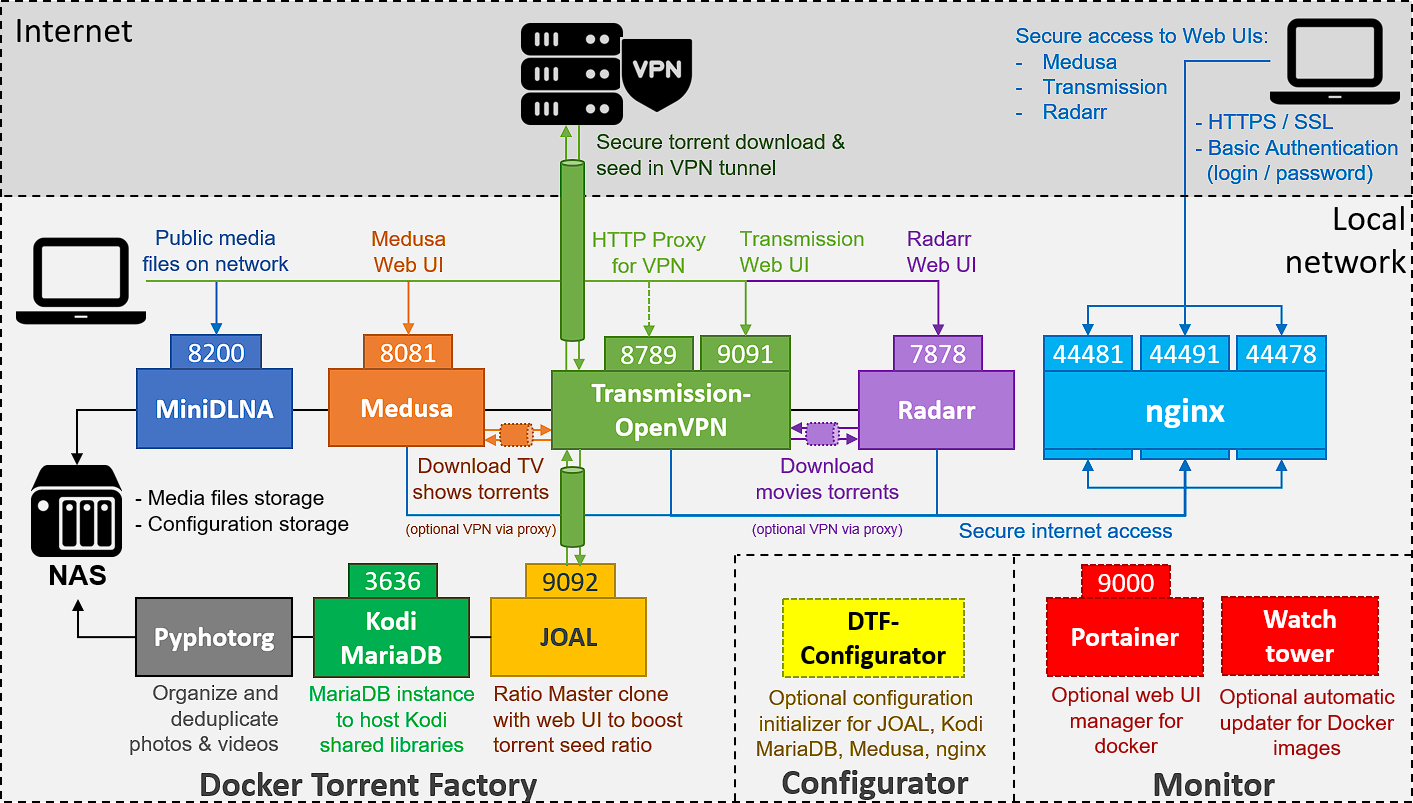
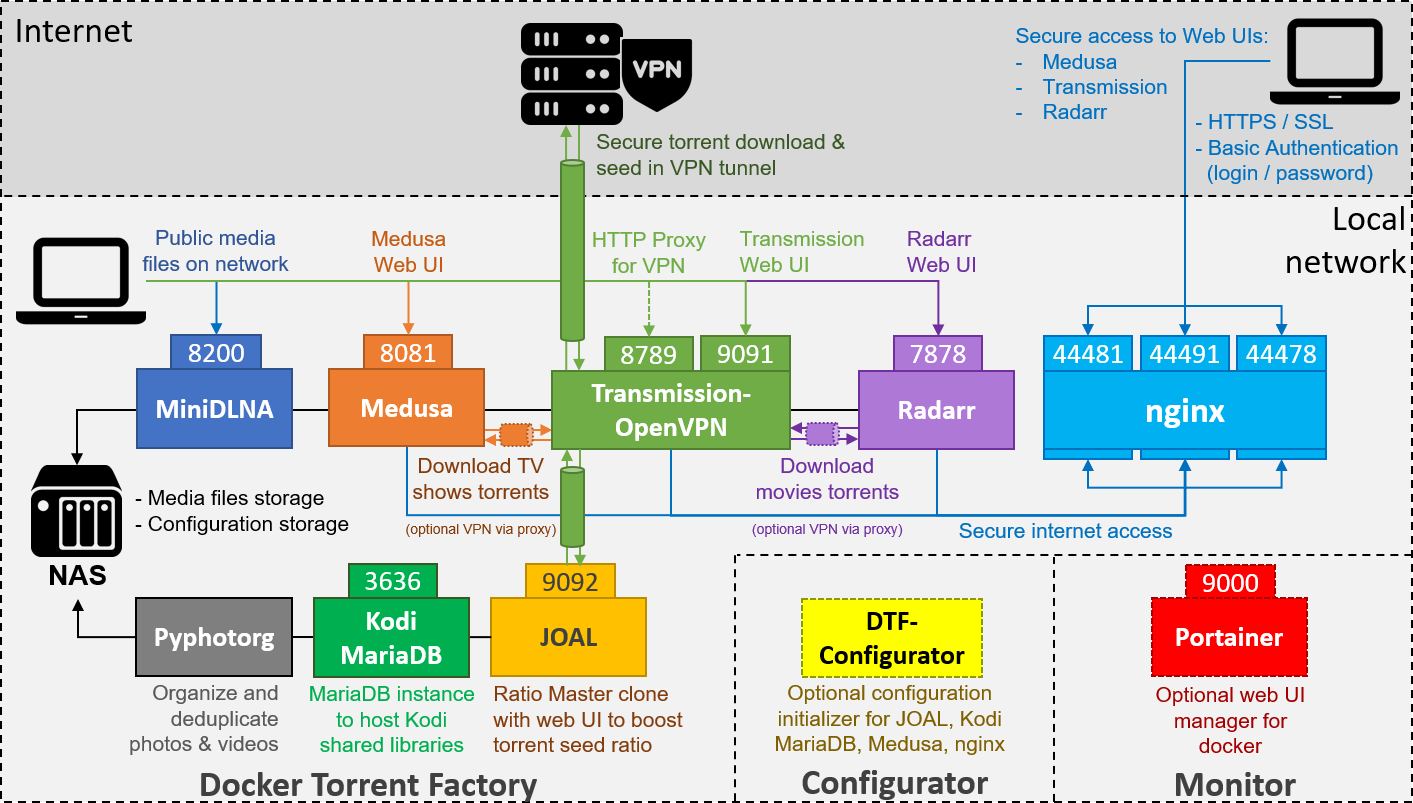
Remove Watchtower (archived) + fix Transmission version

diff --git a/README.md b/README.md
@@ -46,7 +46,7 @@ This repository contains a main `docker-compose.yml` file, configured to launch 
 
 Other docker compose files are available :
 * The `docker-compose-configurator.yml` file is provided to deploy a **Configurator** service, that you may optionally use to automatically configure each service to work together. This one is a "one-shot" process: you may launch it one time before launching the main docker-compose file, in order to generate the configuration files for each service (not possible for Radarr: must be manually configured in web UI). Note that you still can configure each service with the dedicated web UI (Medusa, Radarr, etc) to do additional settings.
-* The `docker-compose-monitor.yml` file is provided to deploy a **Portainer** service that you may use to monitor and manage your docker environment with a web UI, and a **Watchtower** service that automatically updates docker images and containers.
+* The `docker-compose-monitor.yml` file is provided to deploy a **Portainer** service that you may use to monitor and manage your docker environment with a web UI.
 
 ## 2) Features
 * **VPN integration** to secure peer-to-peer downloads and uploads
@@ -61,7 +61,7 @@ Other docker compose files are available :
 * **Shared video and music databases** (MariaDB) for Kodi clients in your local network
 * **Personal photos / videos organizer and deduplicator** (Pyphotorg), executed once a week
 * **Configurator service** (DTF-Configurator) available to initialize configuration files for all services
-* **Monitor services** (Portainer and Watchtower) available to manager docker with web UI, and to automatically update all container and images once a day
+* **Monitor services** (Portainer) available to manager docker with web UI
 * **Selection of services to enable** using an environment config file (you do not need to use everything !)
 
 ## 3) Prerequisites
